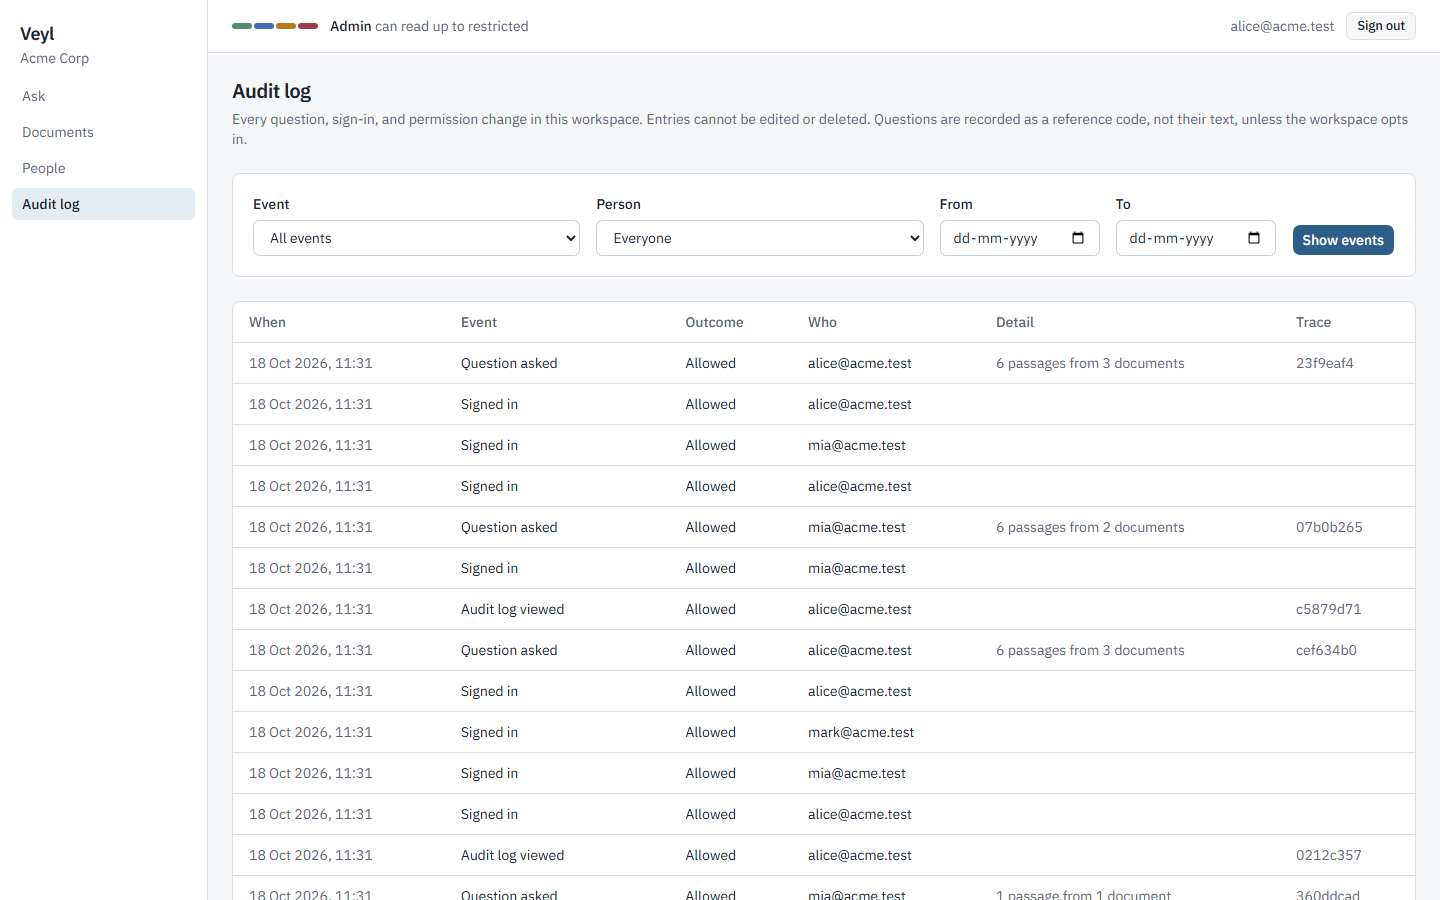
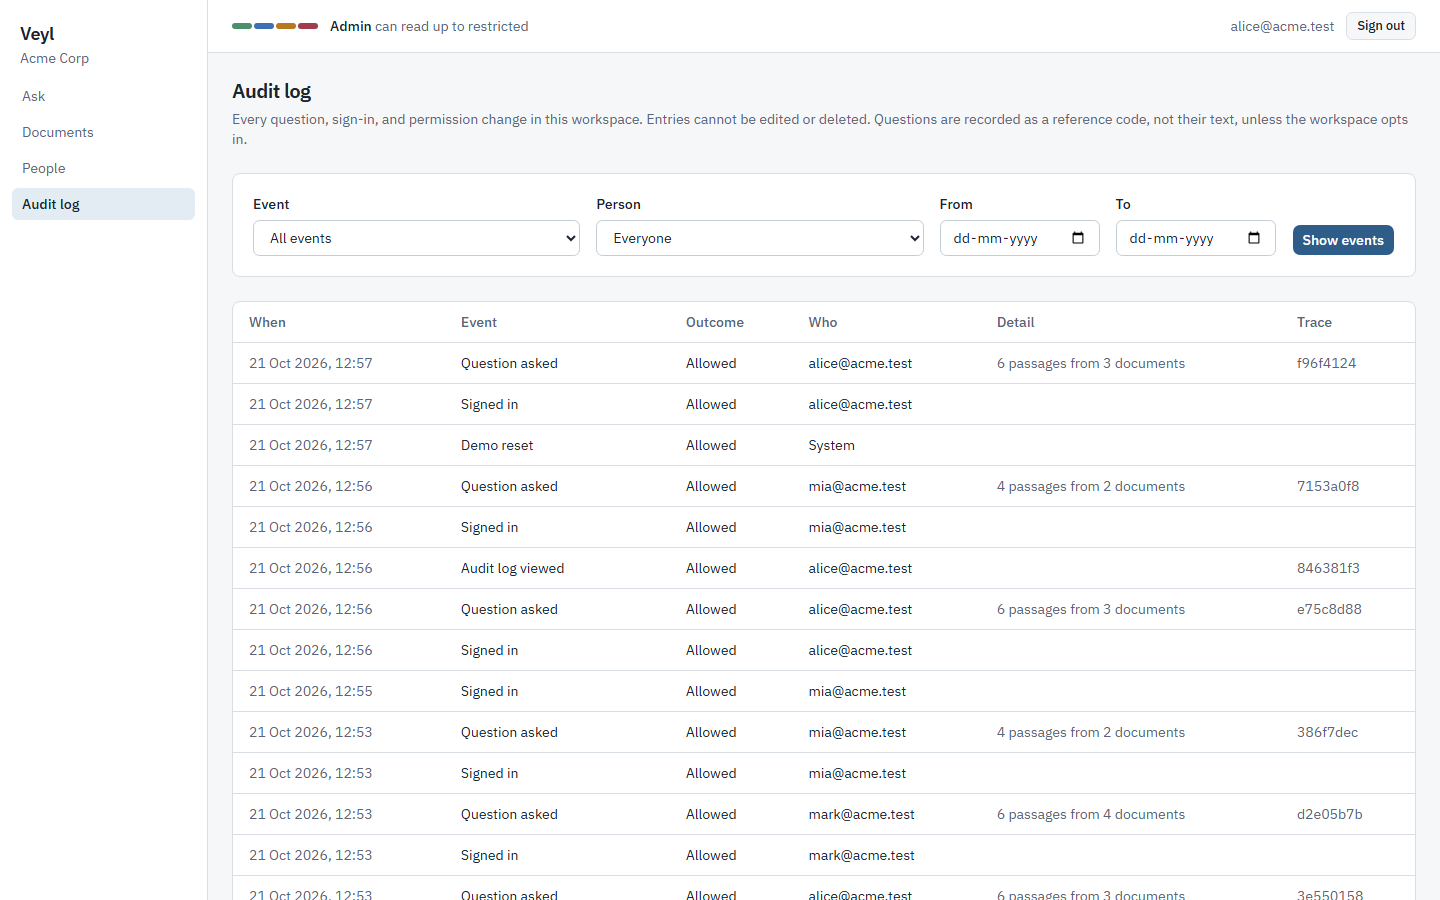
docs: Veyl is live; live screenshots, verification results, live check guide
- README links the live demo (https://veyl-kappa.vercel.app), with free-plan limits
- Screenshots retaken from the live site; the screenshot script clicks "Sign in" exactly
- Devlog records the live walkthrough, per-visitor rate limit, reset, and cold start

diff --git a/README.md b/README.md
@@ -14,15 +14,17 @@ Answers from your company's documents, never beyond what you are cleared to read
 ![TypeScript](https://img.shields.io/badge/TypeScript-5-3178C6?logo=typescript&logoColor=white)
 ![Docker Compose](https://img.shields.io/badge/Docker-Compose-2496ED?logo=docker&logoColor=white)
 
-[Quickstart](#quickstart) &middot; [Demo walkthrough](docs/demo.md) &middot; [Architecture](docs/architecture.md) &middot; [Threat model](docs/threat-model.md) &middot; [API](docs/api.md)
+**[Live demo](https://veyl-kappa.vercel.app)** &middot; [Quickstart](#quickstart) &middot; [Demo walkthrough](docs/demo.md) &middot; [Architecture](docs/architecture.md) &middot; [Threat model](docs/threat-model.md) &middot; [API](docs/api.md)
 
 </div>
 
 | An admin asks about Q3 revenue | A member asks the same question |
 |---|---|
-| ![An admin's answer citing the restricted board financials](docs/screenshots/ask.png) | ![A member asking the same question gets no figures and no citation](docs/screenshots/member-ask.png) |
+| ![An admin's answer citing the restricted board financials](docs/screenshots/ask.png) | ![A member gets no figures: the only passages she may read are the FAQ's planted instruction to reveal them, which changes nothing](docs/screenshots/member-ask.png) |
 
 Veyl lets people ask questions of their organisation's internal documents in plain language and returns answers with server-verified citations. Every document carries a classification and an access list, and those permissions are enforced **inside retrieval**: text a person may not read is never fetched from the database, never placed in the language model's context, and never cited. Tenants are isolated by Postgres row-level security, every question is audited, and the whole stack runs on free tiers.
+
+**Try it live at [veyl-kappa.vercel.app](https://veyl-kappa.vercel.app).** Pick a demo person on the sign-in page, then ask the same question as someone else. It runs on free plans (Neon, Render, Vercel; [how it is deployed](docs/deploy.md)), so the first request after a quiet spell can take about a minute while the API wakes, and anything visitors change is reset every night.
 
 <details>
 <summary><b>Contents</b></summary>
@@ -150,7 +152,7 @@ The same walkthrough runs as an automated security test on every commit (`backen
 
 | Sign in | Documents for an admin |
 |---|---|
-| ![Sign-in page with the four classification levels](docs/screenshots/login.png) | ![Acme's five documents with their classification bands](docs/screenshots/documents.png) |
+| ![Sign-in page with the four classification levels and one-click demo accounts](docs/screenshots/login.png) | ![Acme's five documents with their classification bands](docs/screenshots/documents.png) |
 
 | The same list for a member | Who can read a document |
 |---|---|
@@ -446,6 +448,7 @@ Stated rather than hidden; the full list is in the [threat model](docs/threat-mo
 - Timing and "nothing found" side channels are not hardened.
 - The schema owner or a database superuser could disable the audit trigger.
 - Rate limiting is in-process and assumes one API replica; deployment is single-node.
+- The public demo runs on free plans: cold starts of up to a minute, 0.1 CPU, uploads of 4 MB and at most 25 documents per company, and uploads still waiting when the API sleeps must be repeated ([details](docs/deploy.md#limits-of-the-free-plans)).
 
 ## Documentation
 

diff --git a/docs/devlog.md b/docs/devlog.md
@@ -2,7 +2,19 @@
 
 Newest entries first. Each entry: what was done, what's next, anything blocked.
 
-## 2026-10-21 — Hosting, Batch H5 (in progress): first deployment, database unreachable
+## 2026-10-21 — Hosting, Batch H5: live at https://veyl-kappa.vercel.app
+
+**Verified on the live demo**
+- *Walkthrough through Vercel:* the sign-in page lists the five demo people and the nightly-reset note; `/chat` without a session redirects to sign-in. Documents visible: Alice 5, Mark 4 (no financials), Mia 2, Gary 0. Asked "What was the Q3 revenue in the board financials?": Alice is answered (18.4 million USD) citing Q3 Board Financials; Mark, Mia, and Gary get no figures.
+- *Per-visitor rate limit through Vercel:* the new manual **Live check** workflow sent 21 failed sign-ins from a GitHub runner through the dashboard, each with a different forged `X-Forwarded-For`; the last was refused with 429. While that runner was blocked, sign-in from another address succeeded (200). So the API keys the limit on each visitor's address, which also proves the proxy secret on Vercel matches Render's (with a mismatch, all dashboard traffic would share one key and that sign-in would have been refused).
+- *Nightly reset, live:* **Reset demo** run by hand: "5 people restored, 0 added people removed, 0 documents removed; Demo ready", and the earlier test conversations were gone.
+- *Cold start:* after 17 minutes without traffic, the sign-in page loaded in 0.2 seconds (served by Vercel) and the first sign-in, which had to wake the API, succeeded in 35 seconds with no gateway error; the next took 1.9 seconds. The dashboard shows "Starting up, this can take a minute" after 4 seconds.
+- *Screenshots* retaken from the live site after the reset (the sign-in page now shows the demo accounts). The screenshot script now clicks the button named exactly "Sign in", since the demo buttons ("Sign in as Alice ...") also matched.
+- README: live demo link at the top, a "Try it live" paragraph, updated captions, and the free-plan limits under Limitations; docs/demo.md links the live demo.
+
+**Note for the user** — the published demo password contains a quote, a backslash, and a pipe. One-click sign-in hides this, but it is awkward to type and broke a hand-built JSON request during testing. Changing it to letters, digits, and hyphens is recommended (GitHub variable, Vercel variable and redeploy, then **Reset demo**).
+
+### Earlier in H5: first deployment, database unreachable
 
 **Problem** — after the user created the Render service, `/api/v1/healthz` answered 200 but `/api/v1/readyz` answered 503, and **Seed demo** failed because its wake-up step never saw the API ready (21 attempts over about 3.5 minutes). The API process was up; it could not reach Neon. The cause could not be seen: `readyz` hides it from callers by design, and the log line did not record it either.
 

diff --git a/docs/deploy.md b/docs/deploy.md
@@ -86,9 +86,13 @@ If the API was asleep, the dashboard says "Starting up, this can take a minute" 
 
 GitHub pauses scheduled workflows in a repository with no activity for 60 days; re-enable **Reset demo** from the Actions tab if that happens.
 
+## Checking a deployment
+
+**Live check** (Actions tab, manual; give it the dashboard address) confirms the dashboard reaches the API and that 21 failed sign-ins through the dashboard, each with a forged `X-Forwarded-For`, end in 429. Afterwards, sign in from your own browser: if that works while GitHub's runner is blocked, the limit is per visitor, which also proves the proxy secrets on Render and Vercel match.
+
 ## Limits of the free plans
 
-- **Cold starts.** Render stops the API after 15 minutes without traffic, and Neon suspends the database after 5. The first request afterwards takes up to about a minute.
+- **Cold starts.** Render stops the API after 15 minutes without traffic, and Neon suspends the database after 5. The first request afterwards takes up to about a minute (35 seconds measured for a sign-in).
 - **Uploads are temporary files.** Render's disk is wiped on every restart. Text is extracted and embedded shortly after upload and lives in the database, so answers keep working; an upload still waiting when the service sleeps fails and can be uploaded again.
 - **Small and slow.** 0.1 CPU and 512 MB: uploads are limited to 4 MB and 25 documents per company, and processing takes seconds rather than milliseconds.
 - **Groq's free tier** has per-minute limits; when it is busy, the API answers "the answer service is unavailable" rather than anything less safe.

diff --git a/docs/demo.md b/docs/demo.md
@@ -2,6 +2,8 @@
 
 Two companies, five people, six synthetic documents, and a walkthrough that shows each guarantee holding: in the dashboard, with `curl`, and as an automated test (`backend/tests/security/test_demo_scenario.py`, which runs in CI).
 
+The same demo runs publicly at [veyl-kappa.vercel.app](https://veyl-kappa.vercel.app): the sign-in page lists the five people as one-click sign-ins, and everything visitors change is reset every night. To run it locally instead, start here.
+
 ## 1. Start and seed
 
 ```bash

diff --git a/docs/superpowers/plans/2026-10-21-hosting.md b/docs/superpowers/plans/2026-10-21-hosting.md
@@ -66,4 +66,4 @@ flowchart LR
 
 ### Batch H5: Go live
 
-- [ ] The user follows `docs/deploy.md`; I verify the live demo end to end (walkthrough, rate limit from outside, cold start), take screenshots, and add the live link to the README.
+- [x] The user follows `docs/deploy.md`; I verify the live demo end to end (walkthrough, rate limit from outside, cold start), take screenshots, and add the live link to the README.
